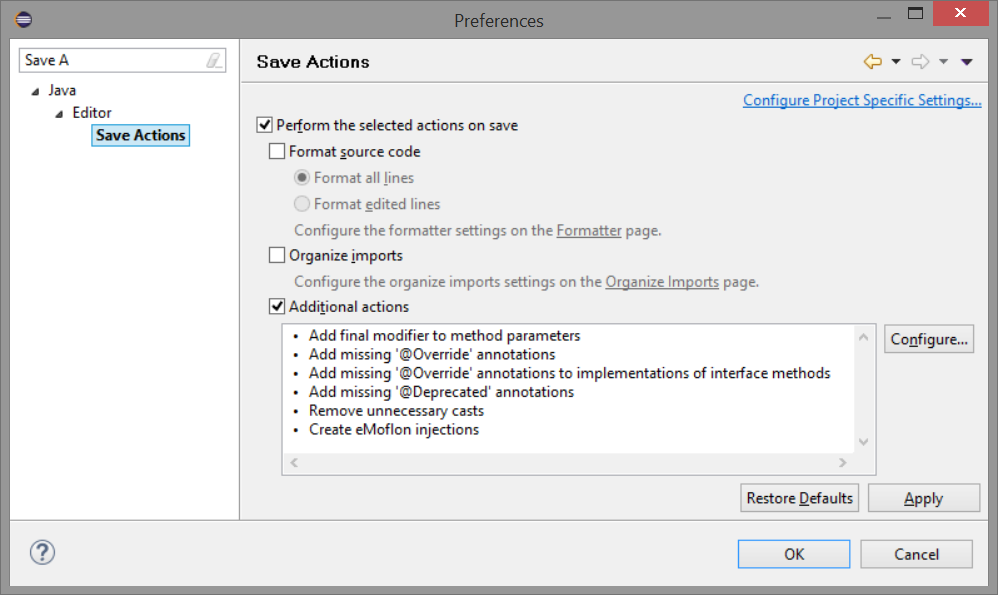
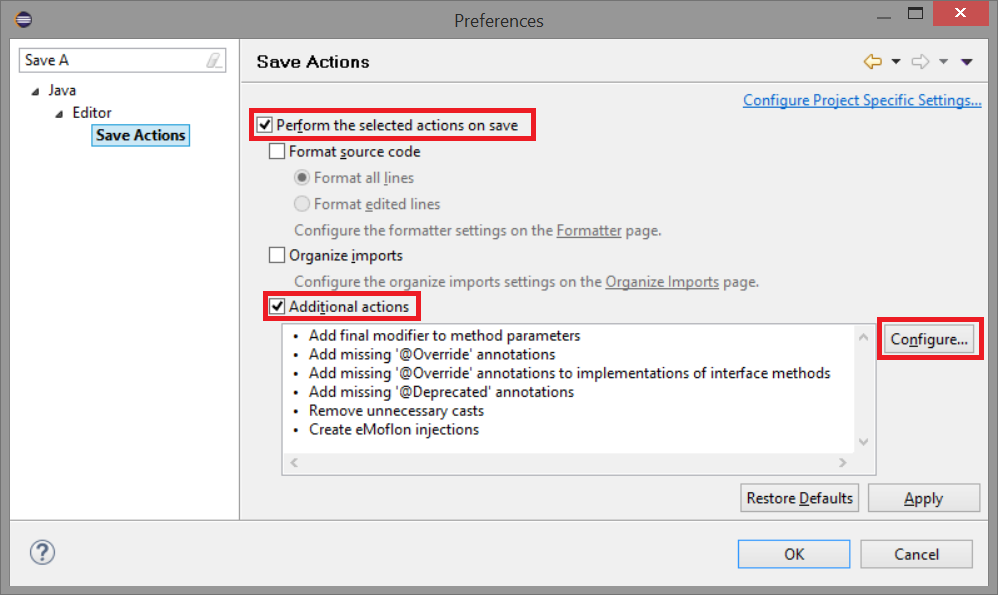
Add highlights to images

Changed region(s): [[0.2485, 0.1815, 0.5591, 0.242], [0.2485, 0.484, 0.4349, 0.5445], [0.8697, 0.5143, 0.994, 0.605]]

diff --git a/Handbook/org.moflon.doc.handbook.03_leitnersLearningBox/5_introToInjections/introInjectionsSrc.tex b/Handbook/org.moflon.doc.handbook.03_leitnersLearningBox/5_introToInjections/introInjectionsSrc.tex
@@ -100,7 +100,7 @@ To enable save actions, tick ``Perform the selected actions on save" and ``Addit
 \begin{figure}[htbp]
     \centering
     \includegraphics[width=0.75\textwidth]{eclipse_injection_saveActions1.png}
-    \caption{Main ``Save Actions" configuration dialog}
+    \caption{Main configuration dialog for save actions}
     \label{eclipse:injection_saveActions1}
 \end{figure}
 
@@ -109,13 +109,16 @@ Press ``Configure", switch to the ``eMoflon Injections" tab and tick ``Enable in
 
 \begin{figure}[htbp]
     \centering
-    \includegraphics[width=0.75\textwidth]{eclipse_injection_saveActions1.png}
-    \caption{Additional actions configuration dialog}
+    \includegraphics[width=0.75\textwidth]{eclipse_injection_saveActions2.png}
+    \caption{Configuration dialog for additional save actions}
     \label{eclipse:injection_saveActions2}
 \end{figure}
 
 \item[$\blacktriangleright$]
-After confirming the changes, open up ``PartitionImpl.java", perform a tiny modification on it, and save the file.
+After confirming the dialog, the bulleted list should contain the entry ``Create eMoflon injections".
+
+\item[$\blacktriangleright$]
+Open up ``PartitionImpl.java", perform a tiny modification on it, and save the file.
 The eMoflon console should display a message to confirm that injections have been extracted automatically, e.g.,
 \begin{verbatim}
 [handlers.CreateInjectionHandler::115] -  Created injection
